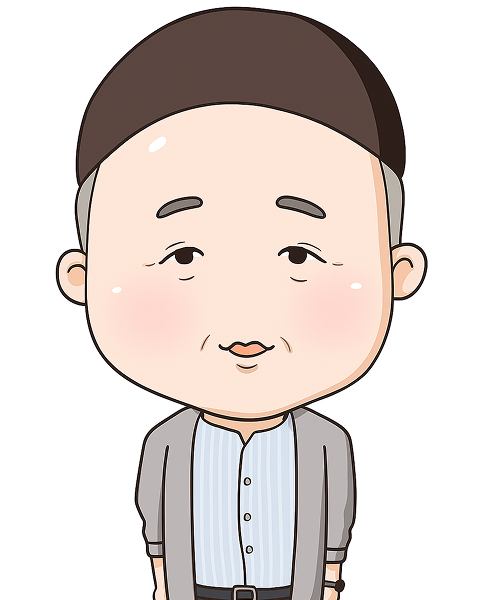
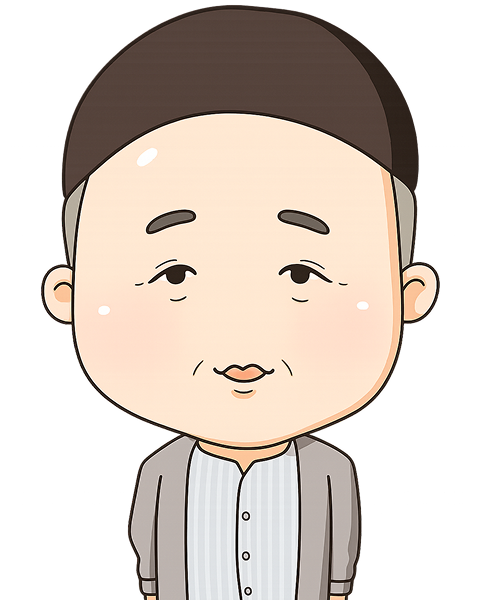
feat: TestResultPage UI 구현 및 Header 요소 색상 변경

Changed region(s): [[0.0625, 0.0, 0.9375, 1.0], [0.5625, 0.3, 0.75, 0.51], [0.2812, 0.3, 0.4375, 0.51]]

diff --git a/src/pages/TestResultPage.jsx b/src/pages/TestResultPage.jsx
@@ -2,6 +2,21 @@ import React, { useState, useEffect, useRef } from 'react';
 import styled from 'styled-components';
 import Header from '../components/Header';
 
+// character images
+import YoungSook from '../assets/images/characters/youngsook.png';
+import JungSook from '../assets/images/characters/jungsook.png';
+import SoonJa from '../assets/images/characters/soonja.png';
+import YoungJa from '../assets/images/characters/youngja.png';
+import OkSoon from '../assets/images/characters/oksoon.png';
+import HyunSook from '../assets/images/characters/hyunsook.png';
+
+import YoungSu from '../assets/images/characters/youngsu.png';
+import SangChul from '../assets/images/characters/sangchul.png';
+import KwangSu from '../assets/images/characters/kwangsu.png';
+import YoungSik from '../assets/images/characters/youngsik.png';
+import YoungChul from '../assets/images/characters/youngchul.png';
+import YoungHo from '../assets/images/characters/youngho.png';
+
 const TestResultPage = () => {
   const  headerRef = useRef(null);
   const [headerHeight, setHeaderHeight] = useState(0);
@@ -18,7 +33,27 @@ const TestResultPage = () => {
         <Header />
       </HeaderWrapper>
       <BodyWrapper $paddingTop={headerHeight}>
-        <p style={{textAlign: 'center'}}>test result page</p>
+        <BoldText size="clamp(16px, 5vw, 32px)">
+          {/* user nickname */}
+          <Pink>원숭이 </Pink>
+          님의 너는솔로 캐릭터 유형은?
+        </BoldText>
+
+        {/* character image */}
+        <CharacterImage src={YoungSook} />
+        
+        {/* character name */}
+        <CharacterText>영숙</CharacterText>
+
+        {/* character description */}
+        <BoldText size="clamp(13px, 4vw, 26px)">"야무진 리더, 커리어도 사랑도 잡은 여왕"</BoldText>
+        <LightText size="clamp(10px, 3vw, 20px)">
+          똑부러지고 일도 사랑도 확실한 스타일!
+          <br />
+          리더십과 책임감으로 어떤 상황도 척척 해결하는 능력자예요.
+          <br />
+          성공한 커리어우먼의 표본, 당신은 바로 영숙입니다.
+        </LightText>
       </BodyWrapper>
     </Wrapper>
   );
@@ -43,9 +78,52 @@ const HeaderWrapper = styled.div`
 `;
 
 const BodyWrapper = styled.div`
+  flex: 1;
   display: flex;
   flex-direction: column;
-  gap: 4vh;
   overflow-y: auto;
+  align-items: center;
+  justify-content: center;
   padding-top: ${({ $paddingTop }) => `${$paddingTop}px`};
+  padding-bottom: 10vh;
+`;
+
+const BoldText = styled.span`
+  font-size: ${({ size }) => size || 'clamp(15px, 4.5vw, 30px)'};
+  font-weight: 600;
+  color: #121212;
+  cursor: default;
+`;
+
+const LightText = styled.span`
+  font-size: ${({ size }) => size || 'clamp(10px, 3vw, 20px)'};
+  font-weight: 400;
+  color: #3D3D3D;
+  cursor: default;
+  text-align: center;
+  margin-top: 1.7vh;
+`;
+
+const Pink = styled.span`
+  color: #FF63C1;
+`;
+
+const CharacterText = styled.span`
+  font-size: clamp(8px, 4.5vw, 28px);
+  font-weight: 600;
+  text-align: center;
+  color: #121212;
+  background-color: #FA8BCE;
+  width: clamp(100px, 20vw, 160px);
+  aspect-ratio: 7 / 2;
+  border-radius: 100px;
+  cursor: default;
+  margin-bottom: 5vh;
+`;
+
+const CharacterImage = styled.img`
+  display: block;
+  width: clamp(120px, 30vw, 200px);
+  aspect-ratio: 4 / 5;
+  margin-top: 5vh;
 `;

diff --git a/src/components/Header.jsx b/src/components/Header.jsx
@@ -2,7 +2,7 @@ import React from 'react';
 import { useNavigate } from 'react-router-dom';
 import styled from 'styled-components';
 import Logo from '/logo.png';
-import RetryIconImage from '../assets/images/retry-icon.png';
+import RetryIconImage from '../assets/images/retry-black.png';
 
 const Header = () => {
     const navigate = useNavigate();
@@ -61,6 +61,6 @@ const RetryIcon = styled.img`
 
 const RetryText = styled.span`
     font-size: clamp(14px, 2vw, 20px);
-    font-weight: 600;
-    color: #FF50B9;
+    font-weight: 500;
+    color: #121212;
 `;
